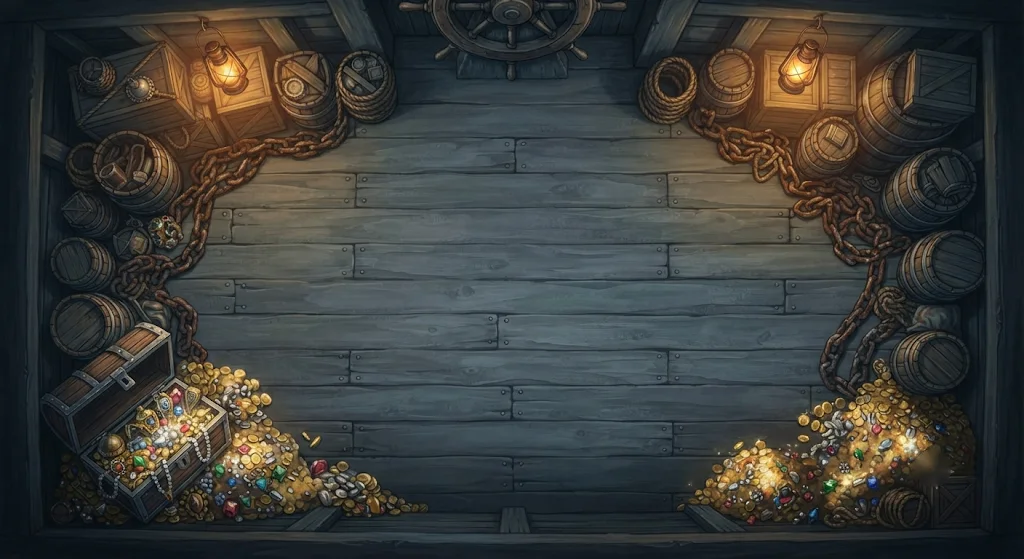
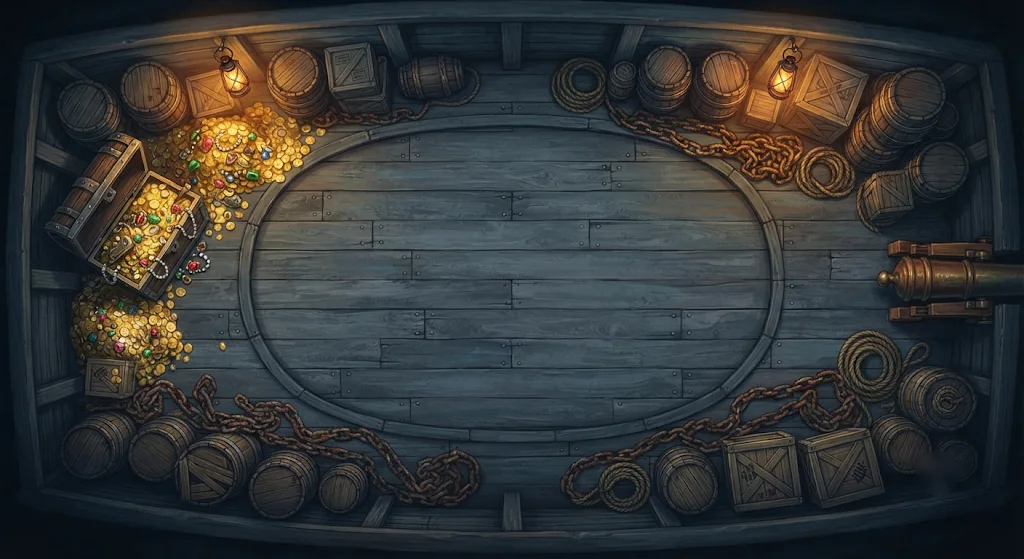
스컬킹: 가로 화면 배경 새 그림으로 교체
Claude-Session: https://claude.ai/code/session_018kcaK1YQGkv4UBC623yDa1

diff --git a/css/style.css b/css/style.css
@@ -2959,3 +2959,5 @@ html.rk-on .vdock .vbtn { height: 34px; font-size: 13px; padding: 0 10px; }
   .skx-glow { top: 12.5%; width: 14%; }
 }
 @media (min-width: 900px) and (orientation: landscape) { .skx-stage { background-image: url(/img/skullking/bg-wide.webp); aspect-ratio: 1.83 / 1; } .skx-glow { top: 12.5%; width: 14%; } }
+@media (orientation: landscape) and (max-height: 560px) { .skx-glow { top: 13%; } .skx-glow.l { left: 22.5%; } .skx-glow.r { left: 76.5%; } }
+@media (min-width: 900px) and (orientation: landscape) { .skx-glow { top: 13%; } .skx-glow.l { left: 22.5%; } .skx-glow.r { left: 76.5%; } }

diff --git a/js/config.js b/js/config.js
@@ -1,6 +1,6 @@
 // 앱 이름
 export const APP_NAME = 'O게임';
-export const APP_VERSION = 'v10.36';
+export const APP_VERSION = 'v10.37';
 
 // Firebase 설정 — Firebase 콘솔 > 프로젝트 설정 > 내 앱 에서 복사한 값
 // apiKey를 비우면 "테스트 모드"로 동작합니다
